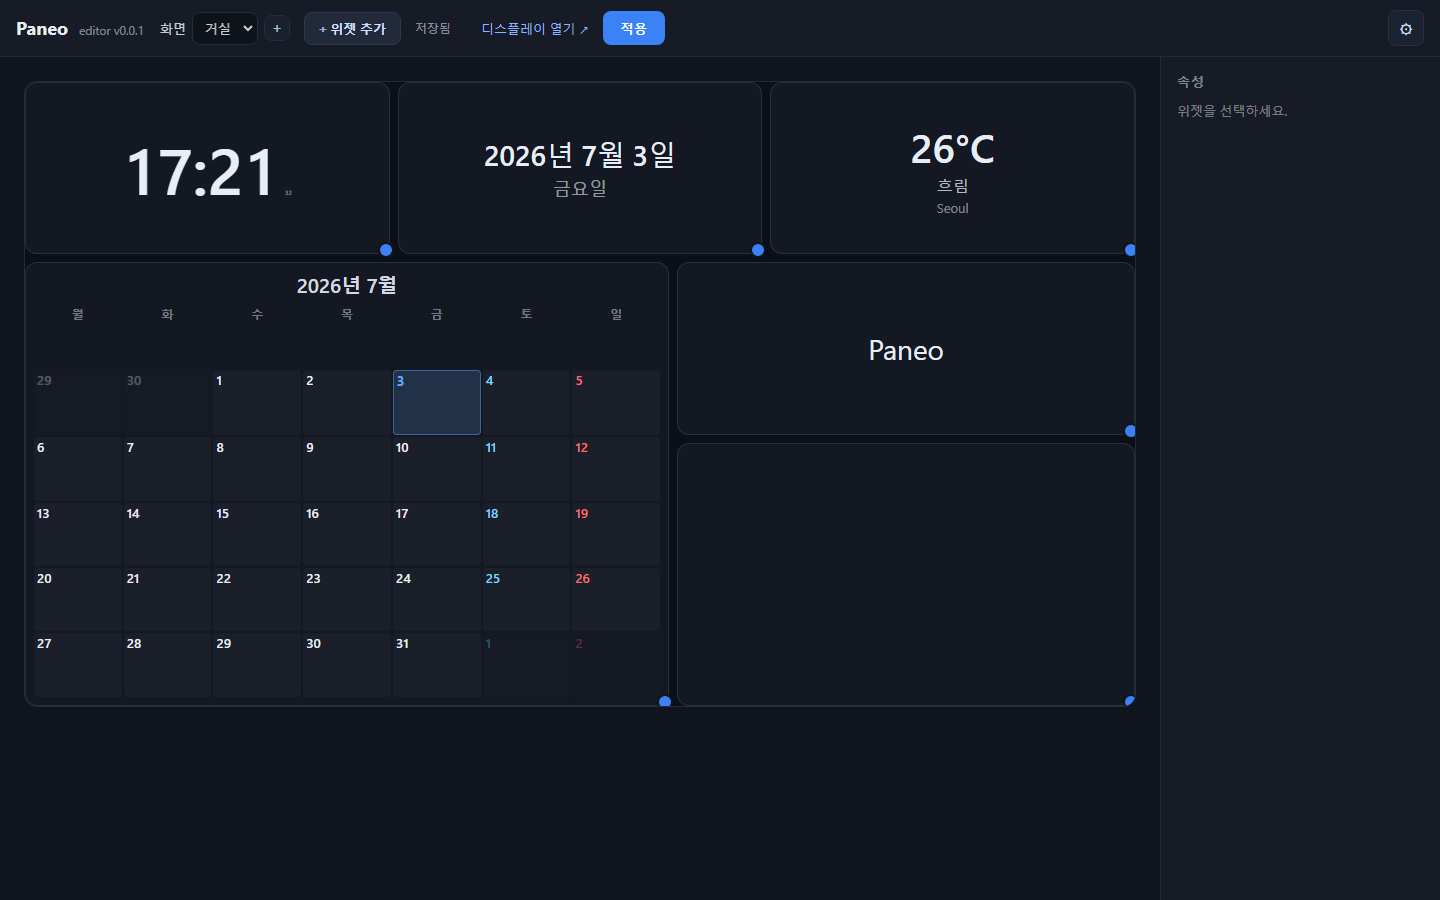
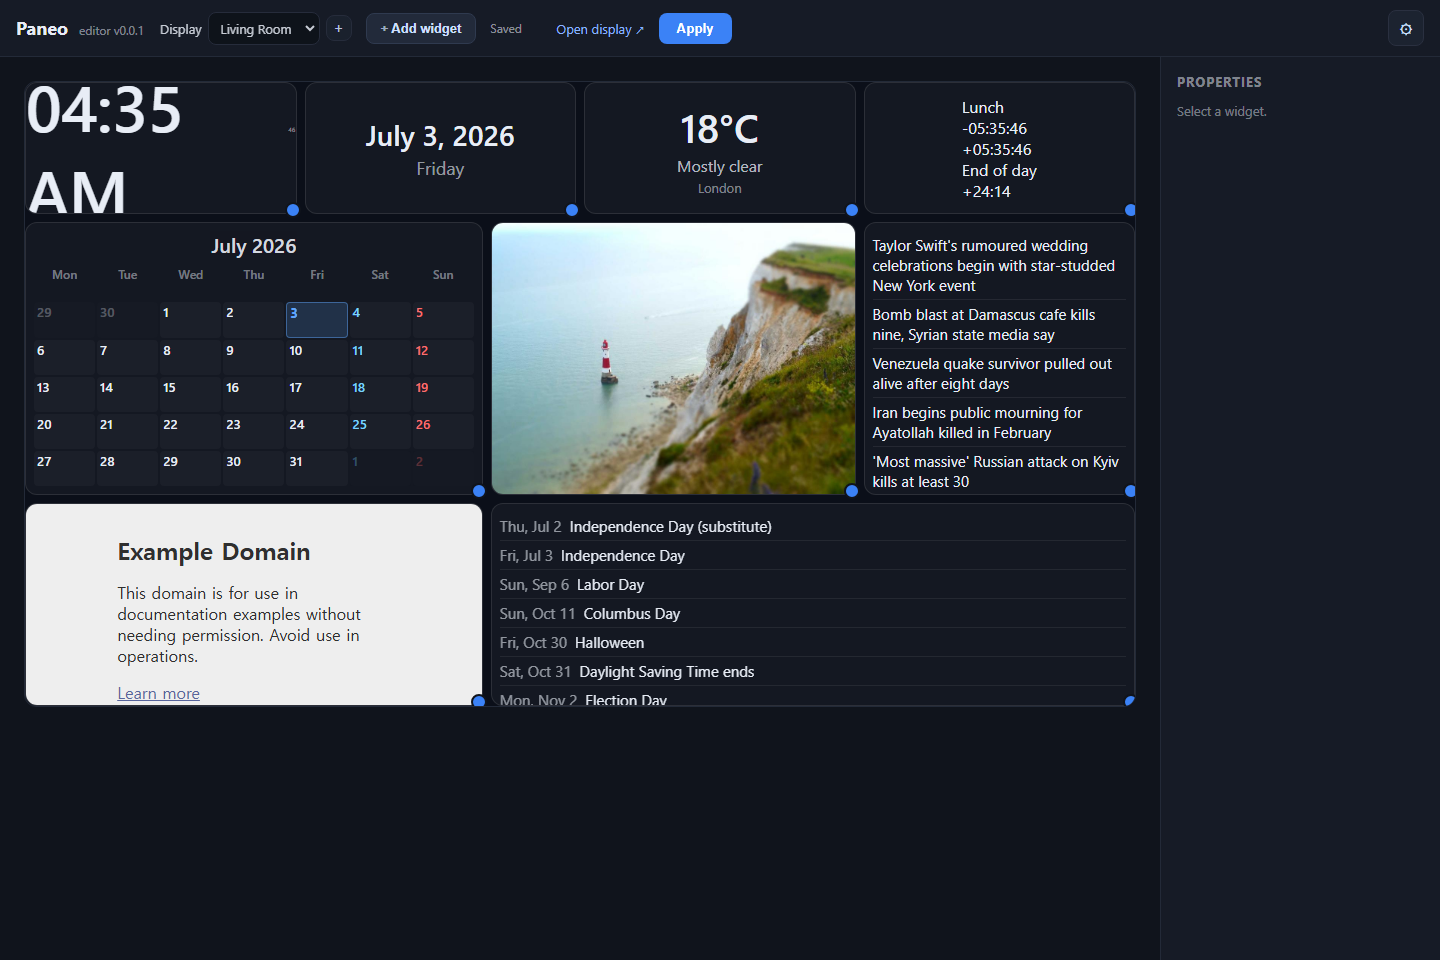
Retake README screenshots in English with more widgets.
Use en-US editor/device locale, nine widgets (no text widget), and
locale-aware English weather labels. Refresh gallery PNGs.

diff --git a/src/dataproxy.js b/src/dataproxy.js
@@ -16,7 +16,7 @@ async function cached(key, ttlMs, fetcher) {
   return value;
 }
 
-const WEATHER_CODE_TEXT = {
+const WEATHER_CODE_TEXT_KO = {
   0: '맑음', 1: '대체로 맑음', 2: '구름 조금', 3: '흐림',
   45: '안개', 48: '서리 안개',
   51: '이슬비', 53: '이슬비', 55: '이슬비',
@@ -25,6 +25,22 @@ const WEATHER_CODE_TEXT = {
   80: '소나기', 81: '소나기', 82: '강한 소나기',
   95: '뇌우', 96: '뇌우(우박)', 99: '뇌우(강한 우박)',
 };
+
+const WEATHER_CODE_TEXT_EN = {
+  0: 'Clear', 1: 'Mostly clear', 2: 'Partly cloudy', 3: 'Overcast',
+  45: 'Fog', 48: 'Rime fog',
+  51: 'Light drizzle', 53: 'Drizzle', 55: 'Heavy drizzle',
+  61: 'Rain', 63: 'Rain', 65: 'Heavy rain',
+  71: 'Snow', 73: 'Snow', 75: 'Heavy snow', 77: 'Snow grains',
+  80: 'Showers', 81: 'Showers', 82: 'Heavy showers',
+  95: 'Thunderstorm', 96: 'Thunderstorm (hail)', 99: 'Thunderstorm (heavy hail)',
+};
+
+function weatherCodeText(code, locale) {
+  const en = String(locale || '').toLowerCase().startsWith('en');
+  const map = en ? WEATHER_CODE_TEXT_EN : WEATHER_CODE_TEXT_KO;
+  return map[code] ?? '-';
+}
 
 async function geocode(location) {
   const url = `https://geocoding-api.open-meteo.com/v1/search?name=${encodeURIComponent(location)}&count=1`;
@@ -36,7 +52,7 @@ async function geocode(location) {
   return { lat: hit.latitude, lon: hit.longitude, name: hit.name };
 }
 
-async function fetchWeather(location) {
+async function fetchWeather(location, locale) {
   const { lat, lon, name } = await geocode(location);
   const url = `https://api.open-meteo.com/v1/forecast?latitude=${lat}&longitude=${lon}&current_weather=true`;
   const res = await fetch(url);
@@ -47,7 +63,7 @@ async function fetchWeather(location) {
     location: name,
     temperature: cw?.temperature,
     weatherCode: cw?.weathercode,
-    weatherText: WEATHER_CODE_TEXT[cw?.weathercode] ?? '-',
+    weatherText: weatherCodeText(cw?.weathercode, locale),
     isDay: !!cw?.is_day,
     fetchedAt: new Date().toISOString(),
   };
@@ -90,9 +106,10 @@ async function fetchMerged(urls, cacheKeyPrefix, ttlMs, fetchOne, combine) {
 export async function registerDataProxy(app) {
   app.get('/api/proxy/weather', async (req, reply) => {
     const location = req.query?.location;
+    const locale = req.query?.locale || 'ko-KR';
     if (!location) return reply.code(400).send({ error: 'location required' });
     try {
-      return await cached(`weather:${location}`, 10 * 60_000, () => fetchWeather(location));
+      return await cached(`weather:${location}:${locale}`, 10 * 60_000, () => fetchWeather(location, locale));
     } catch (err) {
       return reply.code(502).send({ error: String(err.message || err) });
     }

diff --git a/public/shared/widgets.js b/public/shared/widgets.js
@@ -327,7 +327,7 @@ export const widgets = {
       const unitSymbol = units === 'imperial' ? '°F' : '°C';
       loadingBox(el, '...');
       pollJson(
-        el, `/api/proxy/weather?location=${encodeURIComponent(loc)}&units=${units}`, pollInterval(10 * 60_000, ctx),
+        el, `/api/proxy/weather?location=${encodeURIComponent(loc)}&units=${units}&locale=${encodeURIComponent(ctx.locale || 'ko-KR')}`, pollInterval(10 * 60_000, ctx),
         (data) => {
           el.innerHTML = `<div class="w-weather">
             <div class="weather-temp">${Math.round(data.temperature)}${unitSymbol}</div>